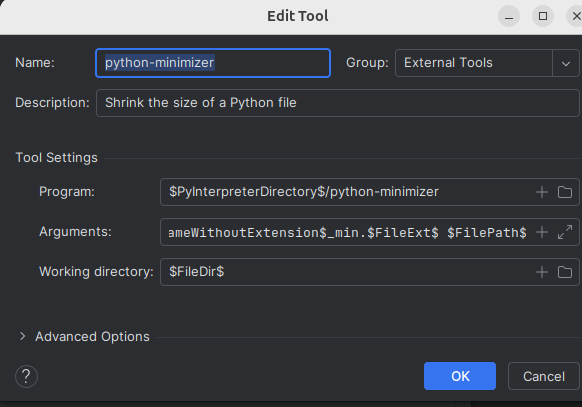
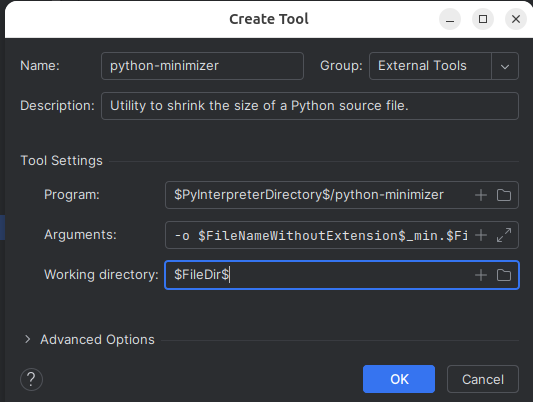
First commit for mkdocs branch

diff --git a/docs/minimizer.md b/docs/minimizer.md
@@ -37,7 +37,6 @@ The macro will be expanded in the macro preview window and added to the field.
 
 ![](./images/macros.png)
 
-The macro will be expanded in the macro preview window and added to the field.
 
 The **Program** field should be edited to contain:
 
@@ -46,4 +45,22 @@ The **Program** field should be edited to contain:
 After inserting the **$PyInterpreterDirectory$**, we manually append a slash and
 name of the python-minimizer command.
 
+Next we add the command arguments to the Arguments field. I prefer to not have 
+original source file minified, but instead to create a new file that has "_min" 
+appended to the file name.
+
+To do this we use the following arguments:
+
+**-o $FileNameWithoutExtension$_min.$FileExt$ $FilePath$**
+
+The -o options specifies the output file, and $FilePath$ specifies the
+input file.
+
+The **Working Directory** is the directory where the file is found and the new file
+will be created.
+
+When you have completed entering all the information, click OK and you should see that
+python-minimizer external tool was created.
+
+![](./images/add_external_tool2.png)
 

diff --git a/docs/uflash.md b/docs/uflash.md
@@ -1,0 +1,22 @@
+The uflash utility is used to flash Python scripts to the BBC micro:bit.
+
+Once again, we select Settings/Tool/External Tools from the Settings menu and press
+the Plus sign. We then fill in the fields:
+
+**Name**: uflash
+
+**Description**: Flashing utility for the micro:bit
+
+**Program**: $PyInterpreterDirectory$/uflash
+
+**Working Directory**: $FileDir$
+
+![](./images/uflash.png)
+
+When complete, we click on OK.
+
+![](./images/uflash2.png)
+
+The uflash utility has been added to the list of external tools.
+
+
